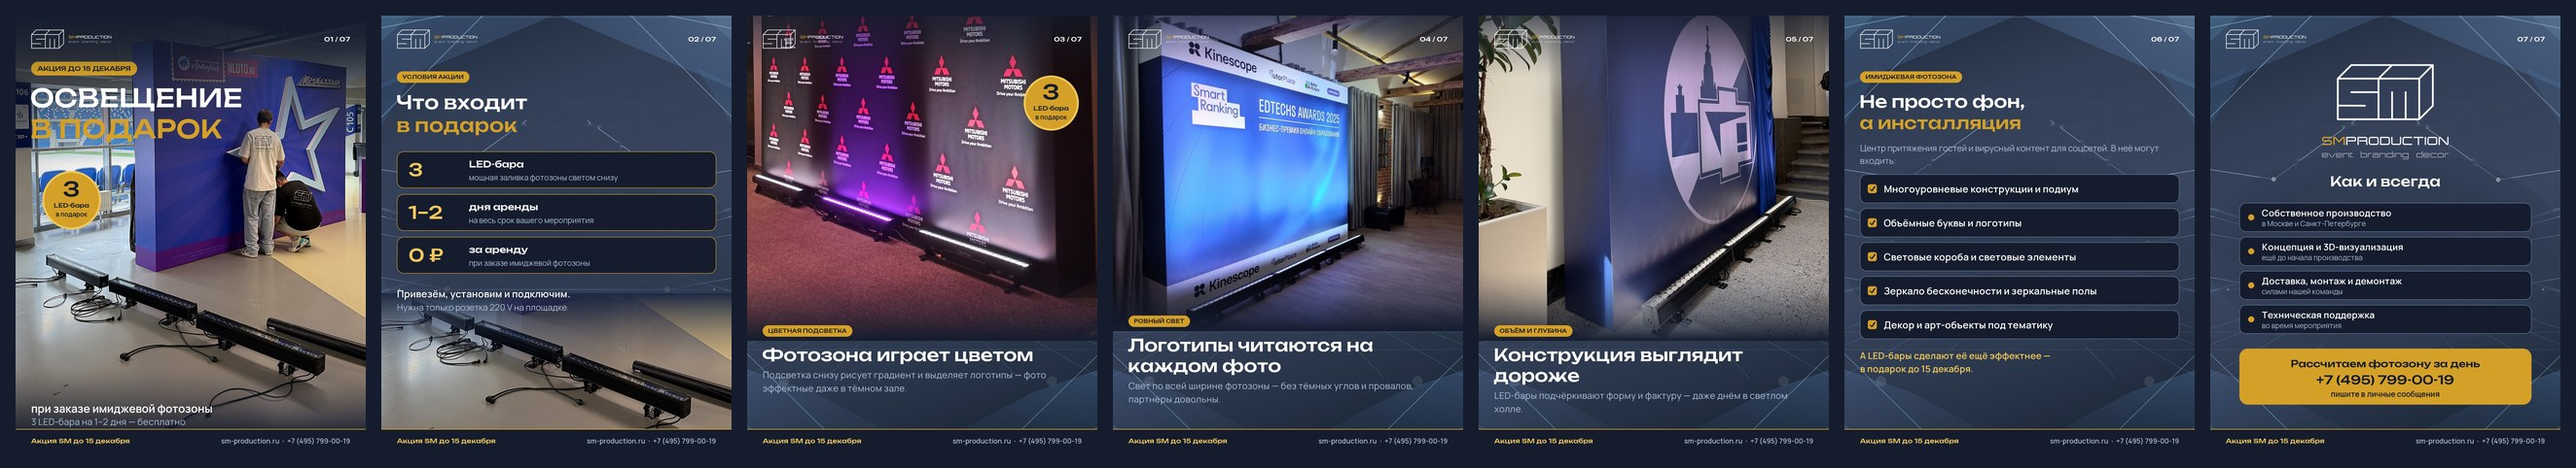
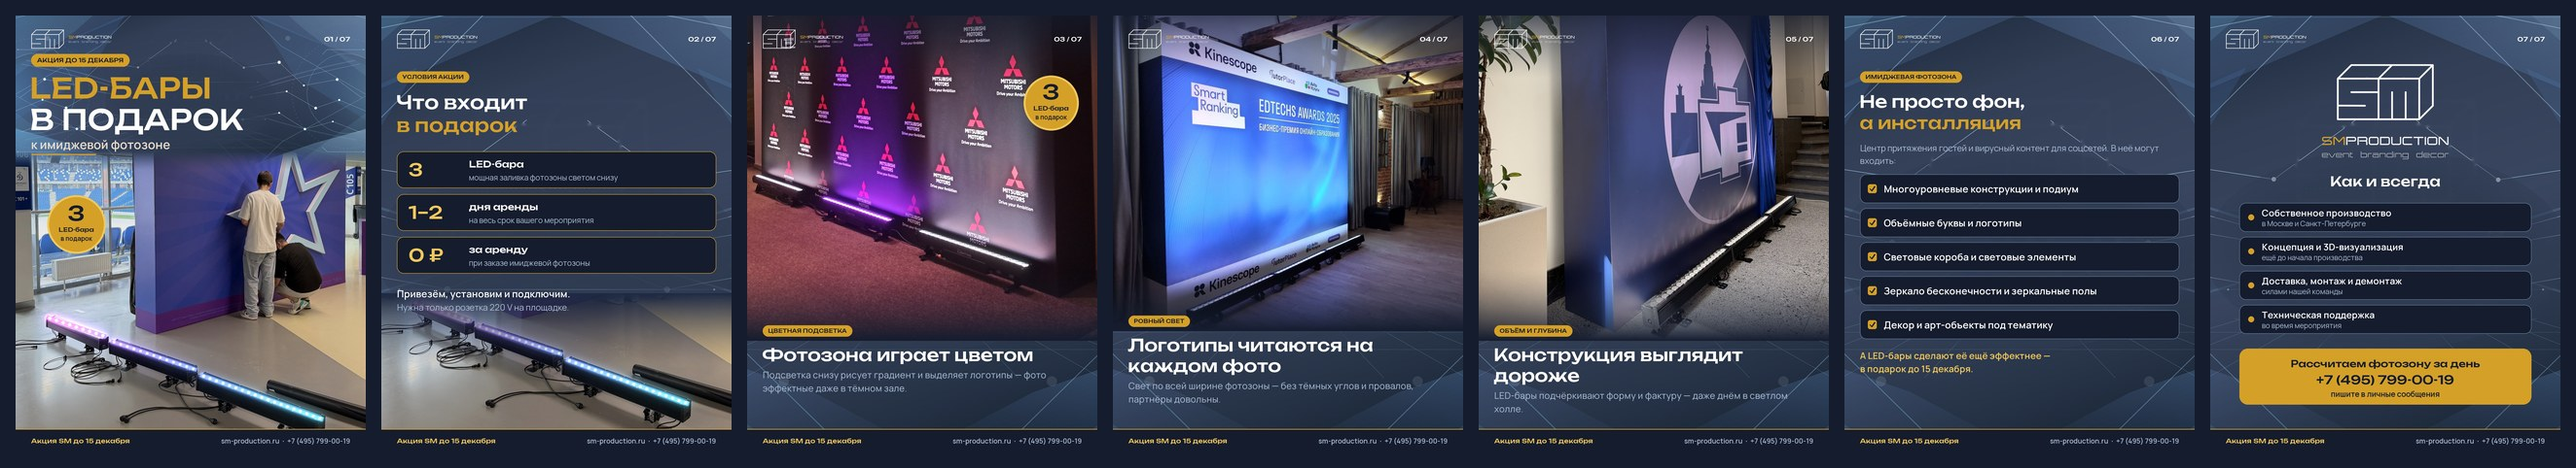
SMM carousel: cover in LED-bars gift creative style (lit bars, brand panel)

Changed region(s): [[0.0, 0.0311, 0.2787, 0.9336]]

diff --git a/scripts/smm/led_promo_carousel.py b/scripts/smm/led_promo_carousel.py
@@ -136,108 +136,47 @@ def gift_badge(img, cx, cy, r=118):
     d.text((cx, cy + 58), "в подарок", font=F("ms", 26), fill=NAVY0, anchor="mm")
 
 
-# ------------------------------------------------------------------ фото монтажа: SM-лого на футболках
-INSTALL_SRC = SRC / "install-nloto.jpg"           # монтаж фотозоны + 3 LED-бара (присланное фото)
-INSTALL_OUT = SRC / "install-nloto-sm.jpg"        # обработанная версия
-
-
-def _print_on_shirt(img, center, width, angle, color_bgr, shirt_mask, tilt=0.0, ink=1.0):
-    """Печать логотипа SM на спине футболки: поворот, лёгкая перспектива, складки ткани из яркости."""
-    lg = RP._logo.copy()
-    a = lg[..., 3].astype(np.float32) / 255
-    gold = (lg[..., 2].astype(int) - lg[..., 0].astype(int)) > 60      # «SM» в SMPRODUCTION — золото
-    col = np.zeros(lg.shape[:2] + (3,), np.float32)
-    col[:] = color_bgr
-    col[gold] = (25, 155, 209)
-    h0, w0 = lg.shape[:2]
-    hh = width * h0 / w0
-    cx, cy = center
-    src = np.float32([[0, 0], [w0, 0], [w0, h0], [0, h0]])
-    loc = np.float32([[-width / 2, -hh / 2], [width / 2, -hh / 2 * (1 - tilt)],
-                      [width / 2, hh / 2 * (1 - tilt)], [-width / 2, hh / 2]])
-    r = np.deg2rad(angle)
-    R = np.float32([[np.cos(r), -np.sin(r)], [np.sin(r), np.cos(r)]])
-    dst = loc @ R.T + np.float32([cx, cy])
-    M = cv2.getPerspectiveTransform(src, dst)
-    H_, W_ = img.shape[:2]
-    wa = cv2.warpPerspective(a, M, (W_, H_), flags=cv2.INTER_AREA)
-    wc = cv2.warpPerspective(col, M, (W_, H_), flags=cv2.INTER_AREA)
-    wa = cv2.GaussianBlur(wa, (0, 0), 0.7) * shirt_mask * ink
-    # складки: отношение локальной яркости к сглаженной
-    g = cv2.cvtColor(img, cv2.COLOR_BGR2GRAY).astype(np.float32)
-    fine = cv2.GaussianBlur(g, (0, 0), 1.5)
-    coarse = cv2.GaussianBlur(g, (0, 0), 40)
-    sh = np.clip((fine + 8) / (coarse + 8), 0.55, 1.25)
-    big = np.clip(coarse / np.median(coarse[shirt_mask > 0.5]), 0.75, 1.15)
-    wc = wc * (sh * big)[..., None]
-    out = img.astype(np.float32) * (1 - wa[..., None]) + wc * wa[..., None]
-    return np.clip(out, 0, 255).astype(np.uint8)
-
-
-def prepare_install():
-    img = cv2.imread(str(INSTALL_SRC))
-    # маски спин (вручную по фото): печать не заходит на руки и голову
-    def back(pts):
-        m = np.zeros(img.shape[:2], np.uint8)
-        cv2.fillPoly(m, [np.int32(pts)], 1)
-        return cv2.GaussianBlur(m.astype(np.float32), (0, 0), 2)
-    # белая футболка (стоящий монтажник) — тёмно-синяя печать
-    img = _print_on_shirt(img, (2182, 1600), 188, 1.5, (81, 59, 47),
-                          back([(2058, 1470), (2318, 1485), (2318, 1760), (2052, 1760)]), tilt=0.03)
-    # чёрная футболка (присевший монтажник) — белая печать
-    img = _print_on_shirt(img, (2532, 2088), 190, 10, (232, 234, 236),
-                          back([(2385, 1965), (2510, 1925), (2645, 1980), (2695, 2210), (2395, 2235)]), ink=0.93)
-    # «красиво»: мягкий контраст, сочность, чуть глубины
-    f = img.astype(np.float32) / 255
-    f = 0.5 + (f - 0.5) * 1.06
-    hsv = cv2.cvtColor(np.clip(f, 0, 1).astype(np.float32), cv2.COLOR_BGR2HSV)
-    hsv[..., 1] = np.clip(hsv[..., 1] * 1.12, 0, 1)
-    f = cv2.cvtColor(hsv, cv2.COLOR_HSV2BGR)
-    blur = cv2.GaussianBlur(f, (0, 0), 6)
-    f = np.clip(f + (f - blur) * 0.35, 0, 1)                      # микроконтраст
-    yy, xx = np.mgrid[0:f.shape[0], 0:f.shape[1]].astype(np.float32)
-    vig = 1 - 0.18 * (((xx / f.shape[1] - 0.6) ** 2 + (yy / f.shape[0] - 0.5) ** 2) / 0.5)
-    f = f * np.clip(vig, 0.8, 1)[..., None]
-    out = Image.fromarray(cv2.cvtColor((f * 255).astype(np.uint8), cv2.COLOR_BGR2RGB))
-    return out
-
-
 # ------------------------------------------------------------------ слайды
-def install_photo():
-    """Обработанное фото монтажа (кэш в src/, пересоздаётся при отсутствии)."""
-    if not INSTALL_OUT.exists() or INSTALL_OUT.stat().st_mtime < Path(__file__).stat().st_mtime:
-        prepare_install().save(INSTALL_OUT, quality=90)
-    return Image.open(INSTALL_OUT).convert("RGB")
+def lit_photozone():
+    """Фото фотозоны с LED-барами, бары «включены» — как в креативе sm-ad-led-bars-gift (real_projects.creative)."""
+    img = cv2.imread(str(REAL / "photozone-led-bars.jpg"))
+    MAG, VIO, CYA = (230, 80, 255), (255, 90, 150), (255, 210, 60)
+    lit = RP.led_glow(img, [((160, 1504), (465, 1604), 22, MAG, VIO),
+                            ((490, 1626), (930, 1775), 18, VIO, (255, 140, 90)),
+                            ((950, 1801), (1580, 2031), 20, (255, 140, 90), CYA)])
+    return Image.fromarray(cv2.cvtColor(lit, cv2.COLOR_BGR2RGB))
 
 
 def slide_cover():
-    """Обложка: реальная фотозона на монтаже + 3 LED-бара на полу, монтажники SM."""
+    """Обложка в стиле креатива «LED-бары в подарок»: фирменная плашка сверху (закрывает чужие логотипы
+    на стенде), ниже — фотозона и три светящихся LED-бара."""
     img = brand_bg(W, H).convert("RGBA")
-    ph = install_photo()
+    ph = lit_photozone()
     s = W / ph.width
-    ph = ph.resize((W, round(ph.height * s)), Image.LANCZOS)
-    top = (H - 96) - ph.height                       # низ фото = верх нижней полосы
-    img.alpha_composite(ph.convert("RGBA"), (0, top))
-    # верх: тёмный фирменный градиент под заголовок (потолок и верх стенда)
-    img.alpha_composite(vgrad(W, 620, 0.96, 0.0, power=0.9), (0, 0))
-    # низ: лёгкое затемнение пола под подписью
-    img.alpha_composite(vgrad(W, 260, 0.0, 0.88, power=1.3), (0, H - 96 - 260))
+    ph = ph.resize((W, round(ph.height * s)), Image.LANCZOS).convert("RGBA")
+    off = 40
+    img.alpha_composite(ph.crop((0, 0, W, H - off)), (0, off))
+    # фирменная плашка сверху с плавным переходом в фото
+    panel = brand_bg(W, 640).convert("RGBA")
+    a = np.ones(640, np.float32)
+    a[560:] = np.linspace(1, 0, 80) ** 1.4
+    panel.putalpha(Image.fromarray((np.repeat(a[:, None], W, 1) * 255).astype(np.uint8)))
+    img.alpha_composite(panel, (0, 0))
     d = ImageDraw.Draw(img)
-    y = 190
-    pill(d, 64, y, f"АКЦИЯ {DEADLINE.upper()}", F("u", 26), GOLD, NAVY0, padx=26, h=56)
-    d.text((60, y + 84), "ОСВЕЩЕНИЕ", font=F("u", 104), fill=WHITE)
-    d.text((60, y + 212), "В ПОДАРОК", font=F("u", 104), fill=GOLD)
-    d.text((64, H - 96 - 118), "при заказе имиджевой фотозоны", font=F("ms", 46), fill=WHITE)
-    d.text((64, H - 96 - 58), "3 LED-бара на 1–2 дня — бесплатно", font=F("m", 38), fill=STEEL_L)
-    gift_badge(img, 230, 760, r=112)
-    chrome(img, 1)
+    pill(d, 64, 158, f"АКЦИЯ {DEADLINE.upper()}", F("u", 24), GOLD, NAVY0, padx=24, h=52)
+    d.text((58, 226), "LED-БАРЫ", font=F("u", 116), fill=GOLD)
+    d.text((58, 356), "В ПОДАРОК", font=F("u", 116), fill=WHITE)
+    d.text((64, 496), "к имиджевой фотозоне", font=F("ms", 50), fill=(233, 220, 205))
+    d.line((66, 572, 330, 572), fill=GOLD, width=5)
+    gift_badge(img, 250, 860, r=112)
+    chrome(img, 1, dark_top=False)
     return img
 
 
 def slide_terms():
     img = brand_bg(W, H).convert("RGBA")
     # полоса с баром внизу
-    ph = cover_crop(install_photo().crop((0, 2380, 3092, 3800)), W, 560, 0.5, 0.75).convert("RGBA")
+    ph = cover_crop(lit_photozone().crop((0, 1460, 1800, 2160)), W, 560, 0.5, 0.7).convert("RGBA")
     img.alpha_composite(ph, (0, H - 96 - 560))
     img.alpha_composite(vgrad(W, 300, 1.0, 0.0, color=NAVY1, power=1.3), (0, H - 96 - 560))
     d = ImageDraw.Draw(img)

diff --git a/smm/posts/led-bars-gift-promo.md b/smm/posts/led-bars-gift-promo.md
@@ -29,8 +29,8 @@
 #акция #смпродакшн #фотозона #имиджеваяфотозона #фотозонадлямероприятия #ledбары #подсветка #оформлениемероприятий #event #новогоднийкорпоратив
 
 **Визуал:** карусель из 7 слайдов 4:5 (1440×1800) — `smm/posts/led-bars-gift-carousel/`
-1. `slide-01.jpg` — обложка «Освещение в подарок»: реальный монтаж фотозоны, 3 LED-бара на полу, монтажники в футболках SM (акция до 15 декабря, бейдж «3 LED-бара в подарок»)
-2. `slide-02.jpg` — условия: 3 LED-бара · 1–2 дня · 0 ₽ за аренду; привезём, установим, подключим (220 V); внизу — фото трёх LED-баров с монтажа
+1. `slide-01.jpg` — обложка в стиле креатива «LED-бары в подарок»: фирменная плашка «LED-БАРЫ В ПОДАРОК к имиджевой фотозоне», ниже фотозона и три светящихся LED-бара (акция до 15 декабря, бейдж «3 LED-бара в подарок»)
+2. `slide-02.jpg` — условия: 3 LED-бара · 1–2 дня · 0 ₽ за аренду; привезём, установим, подключим (220 V); внизу — три светящихся LED-бара
 3. `slide-03.jpg` — пример: пресс-волл с цветной подсветкой
 4. `slide-04.jpg` — пример: EdTechs Awards 2025, ровный свет по всей ширине
 5. `slide-05.jpg` — пример: брус-баннер, объём и глубина
